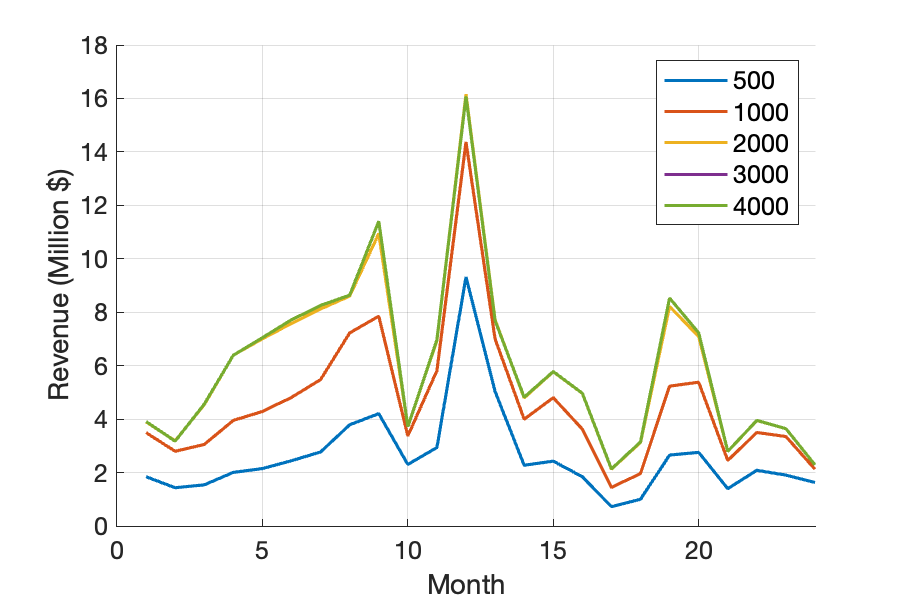
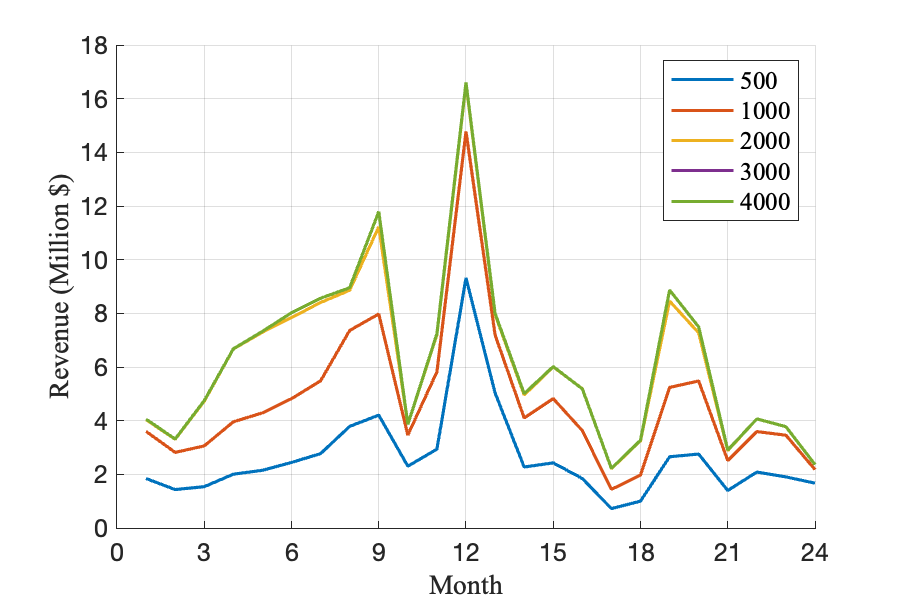
checkpoint: plots

diff --git a/output/postproc.m b/output/postproc.m
@@ -18,10 +18,11 @@ rev = table2array(readtable('rev.csv'))/10e6;
 % Concatenate 2022 and 2023 together
 DV5 = [DVs(:, 1); DVs(:, 2)];
 DV1 = [DVs(:, 3); DVs(:, 4)];
-DV2 = [DVs(:, 5); DVs(:, 6)];
-DV3 = [DVs(:, 7); DVs(:, 8)];
-DV34 = [DVs(:, 9); DVs(:, 10)];
+DV13 = [DVs(:, 5); DVs(:, 6)];
+DV2 = [DVs(:, 7); DVs(:, 8)];
+DV3 = [DVs(:, 9); DVs(:, 10)];
 DV4 = [DVs(:, 11); DVs(:, 12)];
+
 LMP = [input(:, 1); input(:, 2)];
 outflow = [input(:, 3); input(:, 4)];
 inflow = [input(:, 5); input(:, 6)];
@@ -39,49 +40,60 @@ plot(DV4, 'DisplayName', '4000', 'LineWidth', 1.5);
 hold off;
 
 % Add labels and legend
-xlabel('Month','FontSize', labelFontSize);
-ylabel('Price of Water ($/m^3)','FontSize', labelFontSize, 'Interpreter', 'tex');
+xlabel('Month','FontSize', labelFontSize,'FontName', 'Times New Roman');
+ylabel('Price of Water ($/m^3)','FontSize', labelFontSize, 'Interpreter', 'tex','FontName', 'Times New Roman');
 xlim([0,24]);
+xticks(0:3:24);
 % title('2022-2023 Marginal Price of Water for Varying Feeder Capacity (FC)', 'FontSize', titleFontSize);
-legend('FontSize', legendFontSize, 'Location', 'northeast');
+legend('FontSize', legendFontSize, 'Location', 'northeast','FontName', 'Times New Roman');
 set(gca, 'FontSize', axisFontSize)
 grid on;
 saveas(gcf,'figures/waterprice_over_FC.png')
 
-%% FIG 2: DUAL VALUE OVER LMP FOR FC = 3400 GW
+%% FIG 2: DUAL VALUE OVER LMP FOR FC = 1300 GW
 figure('Units', 'inches', 'Position', [1, 1, 6, 4]);
 yyaxis left;
-plot(DV34, 'DisplayName', 'Price of Water', 'LineWidth', 1.5);
-ylabel('Price of Water ($/m^3)','FontSize', labelFontSize, 'Interpreter', 'tex');
+plot(DV13, 'DisplayName', 'Price of Water', 'LineWidth', 1.5);
+ylabel('Price of Water ($/m^3)','FontSize', labelFontSize, 'Interpreter', 'tex','FontName', 'Times New Roman');
 
 yyaxis right;
 plot(LMP, 'DisplayName', 'Price of Electricity', 'LineWidth', 1.5);
-ylabel('Price of Electricity ($/MWh)','FontSize', labelFontSize);
+ylabel('Price of Electricity ($/MWh)','FontSize', labelFontSize,'FontName', 'Times New Roman');
 
 % Add labels and legend
-xlabel('Month', 'FontSize', labelFontSize);
+xlabel('Month', 'FontSize', labelFontSize,'FontName', 'Times New Roman');
 xlim([0,24]);
+xticks(0:3:24);
 % title('2022-2023 Marginal Price of Water over Marginal Price of Electricity', 'FontSize', titleFontSize);
-legend('FontSize', legendFontSize-2.5, 'Location', 'northeast');
+legend('FontSize', legendFontSize-2.5, 'Location', 'northeast','FontName', 'Times New Roman');
 set(gca, 'FontSize', axisFontSize)
 grid on;
+ax = gca; % Get the current axes
+set(ax.YAxis, 'Color', 'k'); % Set the left y-axis ticks and labels to black
+set(ax.YAxis(2), 'Color', 'k'); % Set the right y-axis ticks and labels to black
+
+% Compute the Pearson correlation coefficient
+r = corr(LMP, DV13); 
+disp(r);
+
 saveas(gcf,'figures/waterprice_over_LMP.png')
 
-%% FIG 3: DUAL VALUE OVER NETFLOW FOR FC = 3400 GW
+%% FIG 3: DUAL VALUE OVER NETFLOW FOR FC = 1300 GW
 figure('Units', 'inches', 'Position', [1, 1, 6, 4]); 
 yyaxis left;
-plot(DV34, 'DisplayName', 'Price of Water', 'LineWidth', 1.5);
-ylabel('Price of Water ($/m^3)','FontSize', labelFontSize, 'Interpreter', 'tex');
+plot(DV13, 'DisplayName', 'Price of Water', 'LineWidth', 1.5);
+ylabel('Price of Water ($/m^3)','FontSize', labelFontSize, 'Interpreter', 'tex','FontName', 'Times New Roman');
 
 yyaxis right;
 plot(netflow, 'DisplayName', 'Netflow', 'LineWidth', 1.5);
-ylabel('Netflow (10^6 m^3)','FontSize', labelFontSize, 'Interpreter', 'tex');
+ylabel('Netflow (10^6 m^3)','FontSize', labelFontSize, 'Interpreter', 'tex','FontName', 'Times New Roman');
 
 % Add labels and legend
-xlabel('Month', 'FontSize', labelFontSize);
+xlabel('Month', 'FontSize', labelFontSize,'FontName', 'Times New Roman');
 xlim([0,24]);
+xticks(0:3:24);
 % title('2022-2023 Marginal Price of Water over System Netflow', 'FontSize', titleFontSize);
-legend('FontSize', legendFontSize-2.5, 'Location', 'northeast');
+legend('FontSize', legendFontSize-2.5, 'Location', 'northeast','FontName', 'Times New Roman');
 set(gca, 'FontSize', axisFontSize)
 grid on;
 saveas(gcf,'figures/waterprice_over_netflow.png')
@@ -90,9 +102,9 @@ saveas(gcf,'figures/waterprice_over_netflow.png')
 % Concatenate 2022 and 2023 together
 rev5 = [rev(:, 1); rev(:, 2)];
 rev1 = [rev(:, 3); rev(:, 4)];
-rev2 = [rev(:, 5); rev(:, 6)];
-rev3 = [rev(:, 7); rev(:, 8)];
-rev34 = [rev(:, 9); rev(:, 10)];
+rev13 = [rev(:, 5); rev(:, 6)];
+rev2 = [rev(:, 7); rev(:, 8)];
+rev3 = [rev(:, 9); rev(:, 10)];
 rev4 = [rev(:, 11); rev(:, 12)];
 
 
@@ -107,11 +119,12 @@ plot(rev4, 'DisplayName', '4000', 'LineWidth', 1.5);
 hold off;
 
 % Add labels and legend
-xlabel('Month', 'FontSize', labelFontSize);
-ylabel('Revenue (Million $)','FontSize', labelFontSize, 'Interpreter', 'tex');
+xlabel('Month', 'FontSize', labelFontSize,'FontName', 'Times New Roman');
+ylabel('Revenue (Million $)','FontSize', labelFontSize, 'Interpreter', 'tex','FontName', 'Times New Roman');
 xlim([0,24]);
+xticks(0:3:24);
 % title('2022-2023 Revenue for Varying Feeder Capacity (FC)', 'FontSize', titleFontSize);
-legend('FontSize', legendFontSize, 'Location', 'northeast');
+legend('FontSize', legendFontSize, 'Location', 'northeast','FontName', 'Times New Roman');
 set(gca, 'FontSize', axisFontSize)
 grid on;
 saveas(gcf,'figures/revenue_over_FC.png')

diff --git a/output/weekly.m b/output/weekly.m
@@ -19,21 +19,32 @@ u_t = data.x3;
 p = p_h + p_s;
 
 % Create a figure with four subplots
-figure;
-set(gcf, 'Position', [100, 100, 200, 800]);
+figure('Units', 'inches', 'Position', [1, 1, 6, 8]); % Double height for two subplots stacked vertically
 
 % Plot p_h + p_s
 subplot(2, 1, 1);
-plot(p);
-xlabel('Time (hour)');
+plot(p,'DisplayName', 'Generation', 'LineWidth', 1.5);
+xlabel('Time (hour)','FontName', 'Times New Roman','FontSize', labelFontSize);
 xlim([0,168]);
-ylabel('Total Generation (MW)');
-yline(FC, 'r--', 'LineWidth', 1.5);
+xticks(0:24:168);
+ylabel('Total Generation (MW)','FontName', 'Times New Roman','FontSize', labelFontSize);
+yline(FC, 'r--', 'DisplayName', 'FC','LineWidth', 1.5);
+grid on;
+set(gca, 'FontSize', axisFontSize)
+%set(gca, 'Units', 'inches', 'Position', [0.75, 4.5, 5.5, 3.5]); % Position to fit within figure
+%set(gcf, 'DefaultAxesFontName', 'Times New Roman', 'DefaultTextFontName', 'Times New Roman');
+%legend('FontSize', legendFontSize, 'Location', 'southwest','FontName', 'Times New Roman');
 
 % Plot u_t
 subplot(2, 1, 2);
-plot(u_t);
-xlabel('Time (hour)');
+plot(u_t,'DisplayName', 'Water Release', 'LineWidth', 1.5);
+xlabel('Time (hour)','FontSize', labelFontSize,'FontName', 'Times New Roman');
 xlim([0,168]);
-ylabel('Water Release Rate (m^3/s)', 'Interpreter', 'tex');
+xticks(0:24:168);
+ylabel('Water Release Rate (m^3/s)', 'Interpreter', 'tex','FontName', 'Times New Roman','FontSize', labelFontSize);
+grid on;
+set(gca, 'FontSize', axisFontSize)
+%set(gca, 'Units', 'inches', 'Position', [0.75, 0.5, 5.5, 3.5]); % Position to fit within figure
+%set(gcf, 'DefaultAxesFontName', 'Times New Roman', 'DefaultTextFontName', 'Times New Roman');
+%legend('FontSize', legendFontSize, 'Location', 'southwest','FontName', 'Times New Roman');
 saveas(gcf,'figures/weekly.png')

diff --git a/output/hhplot.m b/output/hhplot.m
@@ -32,9 +32,9 @@ plot(x_fit/10e9, y_fit, 'r--', 'LineWidth', 1.5, 'DisplayName', 'Best Fit'); % R
 hold off;
 
 % Add labels and legend
-xlabel('Volume (10^9 m^3)', 'FontSize', labelFontSize, 'Interpreter', 'tex');
-ylabel('Height (m)','FontSize', labelFontSize);
-legend('FontSize', legendFontSize, 'Location', 'northwest');
+xlabel('Volume (10^9 m^3)', 'FontSize', labelFontSize, 'Interpreter', 'tex','FontName', 'Times New Roman');
+ylabel('Height (m)','FontSize', labelFontSize,'FontName', 'Times New Roman');
+legend('FontSize', legendFontSize, 'Location', 'northwest','FontName', 'Times New Roman');
 set(gca, 'FontSize', axisFontSize)
 grid on;
 saveas(gcf,'figures/hh_fit.png')
